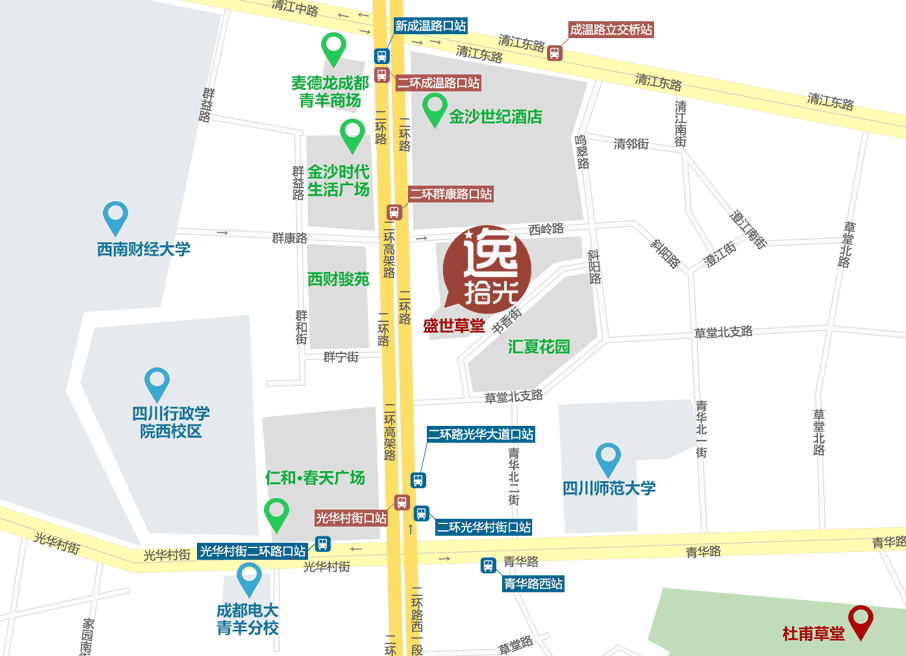
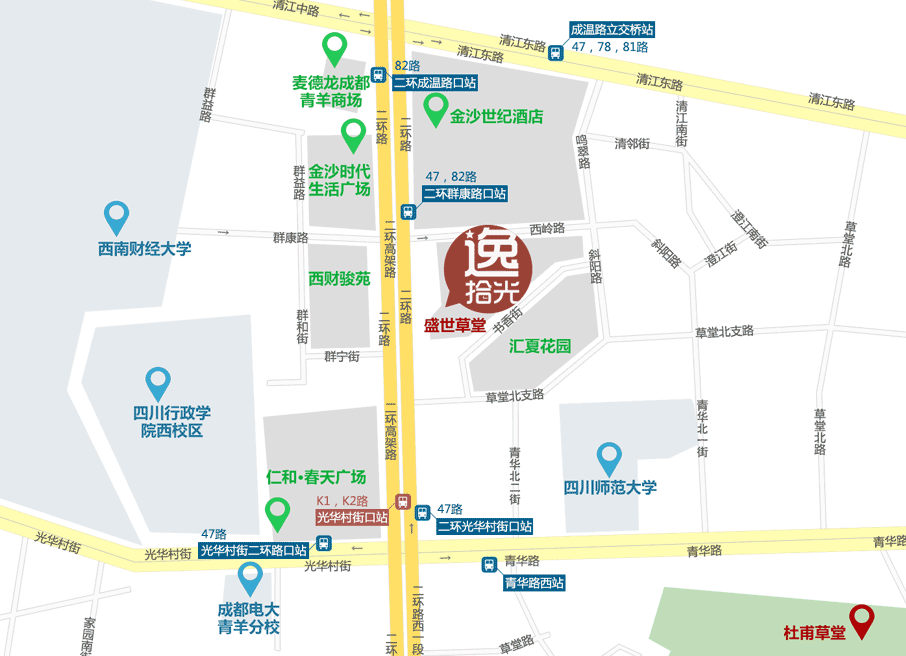
v2

diff --git a/index.html b/index.html
@@ -45,38 +45,39 @@
 		<li><a href="#traffic">交通线路</a></li>
 		<li><a href="#map">地图展示</a></li>
 		<li><a href="#contact">联系我们</a></li>
-		<li><a href="http://www.douban.com/people/cozyhostel/" target="_blank" title="逸拾光的豆瓣小站"><img src="img/i-douban.png"></a></li>
+		<!--li><a href="http://www.douban.com/people/cozyhostel/" target="_blank" title="逸拾光的豆瓣小站"><img src="img/i-douban.png"></a></li-->
+		<li><a href="http://site.douban.com/228100/" target="_blank" title="逸拾光的豆瓣小站"><img src="img/i-douban.png"></a></li>
 		<li><a href="http://weibo.com/1shiguang/" target="_blank" title="逸拾光的新浪微博"><img src="img/i-weibosina.png"></a></li>
 		<li><a href="http://t.qq.com/cozyhostel/" target="_blank" title="逸拾光的腾讯微博"><img src="img/i-weibotencent.png"></a></li>
 		<li><a href="http://www.baidu.com/p/成都逸拾光" target="_blank" title="逸拾光的百度空间"><img src="img/i-baidu.png"></a></li>
 		<li><a href="http://www.renren.com/580297067/" target="_blank" title="逸拾光的人人主页"><img src="img/i-renren.png"></a></li>
 		<li><a href="http://www.kaixin001.com/home/158782110.html" target="_blank" title="逸拾光的开心主页"><img src="img/i-kaixin.png"></a></li>
-		<li><a href="http://www.pengyou.com/11253877/" target="_blank" title="逸拾光的朋友网"><img src="img/i-pengyou.png"></a></li>
+		<!--li><a href="http://www.pengyou.com/11253877/" target="_blank" title="逸拾光的朋友网"><img src="img/i-pengyou.png"></a></li-->
 		<li><a href="http://user.qzone.qq.com/11253877/" target="_blank" title="逸拾光的QQ空间"><img src="img/i-qzone.png"></a></li>
 	</ul>
 </div>
 <div class="main-container" id="home">
 	<div class="intro">
 		<div class="fix">
-			<h1><!--Cozy Hostel<br><span class="subtitle">Front End Developer & Web Designer</span>--> 
+			<h1><!--Cozy Hostel--> 
 				<img src="img/logo.png"><br>
 				<span class="subtitle">成都逸拾光青年旅馆</span>
 				<span class="text">一楼一阁一行人&nbsp;&nbsp;&nbsp;&nbsp;一书一茶一时光</span>
-				<br><br>
+				<img src="img/2v.png" class="weixin">
             </h1>
 		</div>
 	</div>
 	<a class="arrow" href="#house"></a>
 	<div class="clearfix" id="house">
 		<ul id="grid" class="grid">
-			<li> <a href="#" target="_blank" data-largesrc="img/saloona.jpg" data-title="一楼一阁一行人" data-description="我们为你在成都短暂停留提供一个家，在这里，像在家一样洗衣做饭看电视会朋友。"> <img class="thumbs" src="img/thumbs/saloona.jpg" alt="成都的家"/> </a> </li>
-			<li> <a href="#" target="_blank" data-largesrc="img/saloonb.jpg" data-title="小巧舒适结交伙伴" data-description="大家彼此信任相互照顾，在这里你可以结交到新的伙伴，分享心事，共同旅行。"> <img class="thumbs" src="img/thumbs/saloonb.jpg" alt="结交伙伴"/> </a> </li>
-			<li> <a href="#" target="_blank" data-largesrc="img/saloonc.jpg" data-title="一书一茶一时光" data-description="在生活中，慢一点，既能让生命长一些，又能让快乐多一点。"> <img class="thumbs" src="img/thumbs/saloonc.jpg" alt="快乐生活"/> </a> </li>
-			<li> <a href="#" target="_blank" data-largesrc="img/bathroom.jpg" data-title="绿色的家干净的心" data-description="简单，干净，温暖，清洁，就像在家一样的舒适，自在。"> <img class="thumbs" src="img/thumbs/bathroom.jpg" alt="干净卫生"/> </a> </li>
-			<li> <a href="#" target="_blank" data-largesrc="img/girls.jpg" data-title="女生六人间" data-description="粉粉的女生床位间，适合结伴出行的学生朋友，像大学宿舍，简单而舒适，方便交流。"> <img class="thumbs" src="img/thumbs/girls.jpg" alt="女生间"/> </a> </li>
-			<li> <a href="#" target="_blank" data-largesrc="img/boys.jpg" data-title="男生六人间" data-description="蓝色的男生床位间，像大学宿舍，简单的回忆，适合结伴出行的学生朋友。"> <img class="thumbs" src="img/thumbs/boys.jpg" alt="男生间"/> </a> </li>
-			<li> <a href="#" target="_blank" data-largesrc="img/standard.jpg" data-title="标准双人间" data-description="清新的标准双人间，适合结伴出行的双人伙伴。"> <img class="thumbs" src="img/thumbs/standard.jpg" alt="标准间"/> </a> </li>
-			<li> <a href="#" target="_blank" data-largesrc="img/kingsize.jpg" data-title="舒适而宽敞的大床房" data-description="相对隐私的大床房，温馨的像个家。"> <img class="thumbs" src="img/thumbs/kingsize.jpg" alt="大床房"/> </a> </li>
+			<li> <a href="http://site.douban.com/228100/" target="_blank" data-largesrc="img/saloona.jpg" data-title="一楼一阁一行人" data-description="我们为你在成都短暂停留提供一个家，在这里，像在家一样洗衣做饭看电视会朋友。"> <img class="thumbs" src="img/thumbs/saloona.jpg" alt="成都的家"/> </a> </li>
+			<li> <a href="http://site.douban.com/228100/" target="_blank" data-largesrc="img/saloonb.jpg" data-title="小巧舒适结交伙伴" data-description="大家彼此信任相互照顾，在这里你可以结交到新的伙伴，分享心事，共同旅行。"> <img class="thumbs" src="img/thumbs/saloonb.jpg" alt="结交伙伴"/> </a> </li>
+			<li> <a href="http://site.douban.com/228100/" target="_blank" data-largesrc="img/saloonc.jpg" data-title="一书一茶一时光" data-description="在生活中，慢一点，既能让生命长一些，又能让快乐多一点。"> <img class="thumbs" src="img/thumbs/saloonc.jpg" alt="快乐生活"/> </a> </li>
+			<li> <a href="http://site.douban.com/228100/" target="_blank" data-largesrc="img/bathroom.jpg" data-title="绿色的家干净的心" data-description="简单，干净，温暖，清洁，就像在家一样的舒适，自在。"> <img class="thumbs" src="img/thumbs/bathroom.jpg" alt="干净卫生"/> </a> </li>
+			<li> <a href="http://site.douban.com/228100/" target="_blank" data-largesrc="img/girls.jpg" data-title="女生六人间" data-description="粉粉的女生床位间，适合结伴出行的学生朋友，像大学宿舍，简单而舒适，方便交流。"> <img class="thumbs" src="img/thumbs/girls.jpg" alt="女生间"/> </a> </li>
+			<li> <a href="http://site.douban.com/228100/" target="_blank" data-largesrc="img/boys.jpg" data-title="男生六人间" data-description="蓝色的男生床位间，像大学宿舍，简单的回忆，适合结伴出行的学生朋友。"> <img class="thumbs" src="img/thumbs/boys.jpg" alt="男生间"/> </a> </li>
+			<li> <a href="http://site.douban.com/228100/" target="_blank" data-largesrc="img/standard.jpg" data-title="标准双人间" data-description="清新的标准双人间，适合结伴出行的双人伙伴。"> <img class="thumbs" src="img/thumbs/standard.jpg" alt="标准间"/> </a> </li>
+			<li> <a href="http://site.douban.com/228100/" target="_blank" data-largesrc="img/kingsize.jpg" data-title="舒适而宽敞的大床房" data-description="相对隐私的大床房，温馨的像个家。"> <img class="thumbs" src="img/thumbs/kingsize.jpg" alt="大床房"/> </a> </li>
 		</ul>
 	</div>
 </div>
@@ -117,11 +118,11 @@
 			<b>女生<label>6</label>人间：</b><br><span>床位日租<label>50</label>元，周租<label>300</label>元，月租<label>1000</label>元，冷暖空调，独立卫生间，带锁储物柜。</span><br>
 			<b>男生<label>6</label>人间：</b><br><span>床位日租<label>45</label>元，周租<label>280</label>元，月租<label>900</label>元，冷暖空调，公共卫生间，带锁储物柜。</span><br>
 			<b>标准间：</b><br><span>日租<label>120</label>元，周租<label>700</label>元，月租<label>2800</label>元，冷暖空调，<label>1</label>米单人床，公用卫生间。</span><br>
-			<b>大床房：</b><br><span>日租<label>120</label>元，周租<label>700</label>元，月租<label>2800</label>元，冷暖空调，<label>1.5</label>米双人床，公用卫生间。</span><br><br>
-			<b>【关于订房】</b><br><span>由于目前处于试营业阶段，订房只需通过电话/QQ咨询预订房间，暂不用支付定金。</span><br>
+			<b>大床房：</b><br><span>日租<label>120</label>元，周租<label>700</label>元，月租<label>2800</label>元，冷暖空调，<label>1.5</label>米双人床，公用卫生间。</span><br>
+			<b>【关于订房】</b><br><span>由于目前处于试营业阶段，订房只需通过电话/QQ咨询预订房间，暂不用支付订金。</span><br>
 			<b>【付款方式】</b><br><span>前台支付现金。</span><br>
-			<b>【退订，改订】</b><br><span>虽然不用预交定金，但希望你是个靠谱的人，即便不准时入住，也能及时告知。</span><br>
-			<b>【联系方式】</b><br><span>电话：<label>180-03070-4061</label> QQ：<label>1125-3877</label></span><br><br>
+			<b>【退订，改订】</b><br><span>虽然不用预交订金，但希望你是个靠谱的人，即便不准时入住，也能及时告知。</span><br>
+			<b>【联系方式】</b><br><span>电话：<label>134-3819-1075</label> QQ：<label>1125-3877</label></span><br><br>
 		</p>
 	</div>
 </div>
@@ -150,19 +151,17 @@
 	<div class="map-text">
     	<div class="app">
         	<div class="app-head">
-            	<ul>
-                	<li class="active"><a href="javascript:;">旅游线路</a></li>
-                	<li><a href="javascript:;">交通地图</a></li>
+				<ul>
+                	<li class="active"><a href="javascript:;">交通地图</a></li>
+                	<li><a href="javascript:;">旅游线路</a></li>
           		</ul>
 			</div>
             <div class="app-body">
-               <div class="appimg active"><img src="img/appimg2.png"></div>
-               <div class="appimg"><img src="img/appimg.png"></div>
+               <div class="appimg active"><img src="img/appimg.png"></div>
+               <div class="appimg"><img src="img/appimg2.png"></div>
             </div>
         </div>
-    </div>
-	<div class="ursite">
-    	
+		<div class="app2"></div>
     </div>
 </div>
 
@@ -173,10 +172,10 @@
 	</div>
 	<div class="sections">
 			<ul>
-				<li class="tel"><label>138</label><label class="eng">-</label><label>1234</label><label class="eng">-</label><label>5678</label></li>
+				<li class="tel"><label>134</label><label class="eng">-</label><label>3819</label><label class="eng">-</label><label>1075</label></li>
 				<li class="qq"><label>1125</label><label class="eng">-</label><label>3877</label></li>
 				<li class="mail"><label class="eng">cozyhostel@</label><label>126</label><label class="eng">.com</label></li>
-				<li class="douban"><a href="#" target="_blank"><label class="eng">site.douban.com/</label><label>228100</label><label class="eng">/</label></a></li>
+				<li class="douban"><a href="http://site.douban.com/228100/" target="_blank" title="逸拾光的豆瓣小站"><label class="eng">site.douban.com/</label><label>228100</label><label class="eng">/</label></a></li>
 				<li class="weibo"><label class="eng">weibo.com/</label><label>1</label><label class="eng">shiguang</label> 或 <label class="eng">@</label>逸拾光</li>
 				<!--
 				<li class="renren">cozyhostel@126.com</li>
@@ -194,15 +193,15 @@
             <li><a href="#home" title="返回顶部">Copyright ©2014 逸拾光</a></li>
 			<li>&nbsp;</li>
 			<li>&nbsp;</li>
+			<li><a href="http://site.douban.com/228100/" target="_blank" title="成都逸拾光青年旅馆的豆瓣小站">豆瓣小站</a></li>
+			<li><a href="http://weibo.com/1shiguang/" target="_blank" title="成都逸拾光青年旅馆的新浪微博">新浪微博</a></li>
             <li><a href="http://blog.sina.com.cn/cozyhostel/" target="_blank" title="成都逸拾光青年旅馆的新浪博客">新浪博客</a></li>
-            <li><a href="http://weibo.com/1shiguang/" target="_blank" title="成都逸拾光青年旅馆的新浪微博">新浪微博</a></li>
             <li><a href="http://t.qq.com/cozyhostel/" target="_blank" title="成都逸拾光青年旅馆的腾讯微博">腾讯微博</a></li>
-            <li><a href="http://www.douban.com/people/cozyhostel/" target="_blank" title="成都逸拾光青年旅馆的豆瓣小站">豆瓣小站</a></li>
-            <li><a href="http://www.renren.com/580297067/" target="_blank" title="成都逸拾光青年旅馆的人人主页">人人主页</a></li>
+            <li><a href="http://www.baidu.com/p/成都逸拾光" target="_blank" title="成都逸拾光青年旅馆的百度空间">百度空间</a></li>
         </ul>
     </div>
 </div>
-<div id="tv" class="qr-popup"><a class="code-link"><img src="img/2v.png" title="扫一扫，加微信好友"></a></div>
+<!--div id="tv" class="qr-popup"><a class="code-link"><img src="img/2v.png" title="扫一扫，加微信好友"></a></div-->
 <script src="js/vendor/jquery-1.10.1.min.js"></script>
 <script src="js/plugins.js"></script> 
 <script src="js/main.js"></script>

diff --git a/css/main.css b/css/main.css
@@ -20,8 +20,9 @@ textarea { resize: vertical; }
 a { color: #555; text-decoration: none; -webkit-transition: all 0.1s ease-in-out; -moz-transition: all 0.1s ease-in-out; -o-transition: all 0.1s ease-in-out; -ms-transition: all 0.1s ease-in-out; transition: all 0.1s ease-in-out; }
 h1 { color: #fff; color: rgba(255,255,255, 0.7); font-size: 600%; font-family: 'museo sans', museo, helvetica, sans-serif, arial, "Microsoft YaHei", "微软雅黑", "SimSun", "宋体"; font-weight: normal; line-height: 90%; text-align: center; padding: 0; margin: 0; width: 100%; display: table-cell; vertical-align: middle; text-align: center; z-index: 2; position: relative; }
 h1 img { text-align: center; padding: 0; margin: 0; width: auto; text-align: center; filter: alpha(opacity=80); -moz-opacity: 0.8; -khtml-opacity: 0.8; opacity: 0.8; }
-.subtitle { color: #fff; color: rgba(255,255,255, 0.7); font-size: 55%; font-family: "Microsoft YaHei", "微软雅黑", "SimSun", "宋体", 'museo sans', museo, helvetica, sans-serif, arial; font-weight: normal; line-height: 100%; text-align: center; margin: 1% 0; width: 100%; display: table-cell; vertical-align: middle; text-align: center; display: block; }
+.subtitle { color: #fff; color: rgba(255,255,255, 0.7); font-size: 55%; font-family: "Microsoft YaHei", "微软雅黑", "SimSun", "宋体", 'museo sans', museo, helvetica, sans-serif, arial; font-weight: normal; line-height: 150%; text-align: center; margin: 1% 0; width: 100%; display: table-cell; vertical-align: middle; text-align: center; display: block; }
 .text { color: #fff; color: rgba(255,255,255, 0.7); font-size: 32%; font-family: "Microsoft YaHei", "微软雅黑", "SimSun", "宋体", 'museo sans', museo, helvetica, sans-serif, arial; font-weight: normal; line-height: 100%; text-align: center; margin: 1% 0 0; width: 100%; display: table-cell; vertical-align: middle; text-align: center; display: block; }
+img.weixin { width: 182px; height: 182px; padding:10px; margin:2% 0 0 0; background:#fff; filter: alpha(opacity=80); -moz-opacity: 0.8; -khtml-opacity: 0.8; opacity: 0.8; }
 .header-container { position: absolute; width: 100%; z-index: 5; display: none; }
 nav ul { text-align: center; padding: 0; position: fixed; width: 100%; }
 nav ul li { display: inline; padding: 20px; }
@@ -175,12 +176,13 @@ border: 1px solid #b4b4b4; border-top-left-radius: 5px; border-top-right-radius:
 .app .app-head ul { padding: 0; margin: 0 0 0 -50px; list-style: none; display: inline-block; border-right: 1px solid #b4b4b4; }
 .app .app-head ul li { display: inline; font-family: "Microsoft YaHei", "微软雅黑", "SimSun", "宋体", helvetica, arial, sans-serif; font-size: 14px; }
 .app .app-head ul li a { float: left; padding: 0 15px; color: #000; border-left: 1px solid #b4b4b4; }
-.app .app-head ul li.active a, .app .app-head ul li a:hover { background-color: #d2d2d2; background-image: -webkit-gradient(linear, 50% 0, 50% 100%, color-stop(0%, #d2d2d2), color-stop(100%, #e6e6e6) ); background-image: -webkit-linear-gradient(top, #d2d2d2, #e6e6e6); background-image: -moz-linear-gradient(top, #d2d2d2, #e6e6e6); background-image: -o-linear-gradient(top, #d2d2d2, #e6e6e6); background-image: -ms-linear-gradient(top, #d2d2d2, #e6e6e6); background-image: linear-gradient(top, #d2d2d2, #e6e6e6);  filter:progid:DXImageTransform.Microsoft.Gradient(gradientType=0, startColorStr=#d2d2d2, endColorStr=#e6e6e6);
-color: #666; }
+.app .app-head ul li.active a, .app .app-head ul li a:hover { background-color: #9B4237; background-image: -webkit-gradient(linear, 50% 0, 50% 100%, color-stop(0%, #9B4237), color-stop(100%, #ab5146) ); background-image: -webkit-linear-gradient(top, #9B4237, #ab5146); background-image: -moz-linear-gradient(top, #9B4237, #ab5146); background-image: -o-linear-gradient(top, #9B4237, #ab5146); background-image: -ms-linear-gradient(top, #9B4237, #ab5146); background-image: linear-gradient(top, #9B4237, #ab5146);  filter:progid:DXImageTransform.Microsoft.Gradient(gradientType=0, startColorStr=#9B4237, endColorStr=#ab5146);color:#fff; }
 .app .app-body { border: 1px solid #b4b4b4; height: 629px; border-top: none; }
 .appimg { width: 100%; height: 100%; display: none; }
 .appimg.active { display: block; }
 .appimg img { width: 100%; height: 100%; display: block; }
+
+.app2 { display:none;}
 
 /* ==========================================================================
    contact styles
@@ -280,24 +282,22 @@ h2, h3 { page-break-after: avoid; }
 #elevator .backTop:hover, #elevator .code:hover { background-color: rgba(0,0,0,.7) }
 #elevator .qr-popup { position: absolute; bottom: 0; left: -180px; width: 170px; height: 200px; box-shadow: 0 1px 8px rgba(0,0,0,.1); text-align: center; background: #fff; border-radius: 2px; display: none; }
 #elevator .code-link { margin: 10px; display: block; }
-#tv.qr-popup { position: fixed; top: 82%; left: 45%; width: 202px; height: 202px; margin-top: -150px; box-shadow: 0 1px 8px rgba(0,0,0,.1); text-align: center; background: #fff; border-radius: 0px; display: none; z-index: 10; filter: alpha(opacity=80); -moz-opacity: 0.8; -khtml-opacity: 0.8; opacity: 0.8; }
+#tv.qr-popup { position: fixed; top: 82%; left: 45%; width: 192px; height: 192px; margin-top: -150px; box-shadow: 0 1px 8px rgba(0,0,0,.1); text-align: center; background: #fff; border-radius: 0px; display: none; z-index: 10; filter: alpha(opacity=80); -moz-opacity: 0.8; -khtml-opacity: 0.8; opacity: 0.8; }
+#tv.qr-popup img { width: 182px; height: 182px; }
 #tv.qr-popup .code-link { margin: 10px; display: block; }
-
 /* ==========================================================================
    Media Queries
    ========================================================================== */
 @media screen and (max-width: 1700px) {
 .subtitle { font-size: 48%; }
 .text { font-size: 28%; }
-#tv.qr-popup { top: 84%; left: 45%; width: 170px; height: 170px; margin-top: -150px; }
-#tv.qr-popup img { width: 150px; height: 150px; }
+img.weixin { width: 160px; height: 160px; padding:8px;}
 body {overflow-x:hidden;}
 }
 @media screen and (max-width: 1400px) {
 .subtitle { font-size: 48%; }
 .text { font-size: 28%; }
-#tv.qr-popup { top: 84%; left: 44%; width: 170px; height: 170px; margin-top: -150px; }
-#tv.qr-popup img { width: 150px; height: 150px; }
+img.weixin { width: 140px; height: 140px; padding:8px;}
 .about-text p { font-size: 16px; line-height: 32px; }
 .checkin-text p { font-size: 16px; line-height: 30px; }
 .checkin-text p strong { font-size: 140%; line-height: 300%; }
@@ -315,38 +315,40 @@ body {overflow-x:hidden;}
 .floating-contact-right { background: url(../img/logo2mini.png) 0 0 no-repeat; }
 }
 @media screen and (max-width: 1300px) {
+#tv.qr-popup { display:none;}
 .contact { background: #333 url(../img/bear-top2.png) 32% bottom no-repeat fixed; }
 .sections { width: 50%; }
+.background-stuff { display:none;}
 }
 @media screen and (max-width: 1050px) {
-#tv.qr-popup { top: 82%; left: 41.5%; width: 170px; height: 170px; margin-top: -150px; }
-#tv.qr-popup img { width: 150px; height: 150px; }
+img.weixin { width: 120px; height: 120px; padding:8px;}
 .about { background: #c14954 url(../img/bg-about2.png) 50% 10% no-repeat fixed; }
 .contact { background: #333 url(../img/bear-top2.png) 28% bottom no-repeat fixed; }
 .sections { width: 63%; }
 }
 @media screen and (max-width: 830px) {
+img.weixin { width: 80px; height: 80px; padding:8px;}
 .expander h3 { font-size: 32px; }
 .expander p { font-size: 13px; }
 .expander a { font-size: 12px; }
 .about-text { width: 90%; }
 }
 @media screen and (max-width: 780px) {
-#tv.qr-popup { top: 82%; left: 39%; width: 170px; height: 170px; margin-top: -150px; }
-#tv.qr-popup img { width: 150px; height: 150px; }
+img.weixin { display:none;}
 .about-text, .checkin-text, .traffic-text { width: 85%; }
 .contact { background: #333 url(../img/bear-top2.png) 12% bottom no-repeat fixed; }
 .sections { width: 85%; }
 .floating-about-left { margin: 540px 0 0 0; left: 27%; }
 .floating-traffic-left { margin: 60px 0 0 -560px; left: 50%; }
 .floating-contact-right { background: url(../img/logo2mini.png) 0 0 no-repeat; margin: 120px 0 0 100px; left: 34%; }
+.app { display:none; }
+.app2 { display:table-cell; width:640px; height:600px; background:url(../img/appimg-640.png) center center no-repeat;}
 }
 @media screen and (max-width: 650px) {
-#tv.qr-popup { top: 82%; left: 37%; width: 170px; height: 170px; margin-top: -150px; }
-#tv.qr-popup img { width: 150px; height: 150px; }
 .about-text, .checkin-text, .traffic-text { width: 90%; }
 .checkin-text p { font-size: 16px; line-height: 28px; }
-.contact { background: #333 url(../img/bear-top2.png) 22% bottom no-repeat fixed; }
+.map { background: #254a4f; }
+.contact { background: #333; }
 .sections { width: 78%; }
 .floating-about-left { margin: 620px 0 0 0; left: 20%; }
 .floating-traffic-left { margin: 60px 0 0 -600px; left: 50%; }
@@ -361,10 +363,8 @@ h1 span { font-size: 60%; line-height: 100%; }
 .fix { position: relative; }
 .arrow { position: absolute; }
 h1 img { width: 65%; }
-.subtitle { font-size: 58%; }
-.text { font-size: 32%; }
-#tv.qr-popup { top: 82%; left: 35%; width: 140px; height: 140px; margin-top: -150px; }
-#tv.qr-popup img { width: 120px; height: 120px; }
+.subtitle { font-size: 68%; line-height: 150%; }
+.text { font-size: 40%; }
 .about-text, .checkin-text, .traffic-text { width: 95%; }
 .about-text p { font-size: 14px; line-height: 28px; }
 .checkin-text p { font-size: 14px; line-height: 28px; }
@@ -373,19 +373,17 @@ h1 img { width: 65%; }
 .traffic-text p { font-size: 14px; line-height: 28px; }
 .traffic-text p strong { font-size: 140%; line-height: 100%; }
 .traffic-text p label { font-size: 18px; }
-.contact { background: #333 url(../img/bear-top2.png) 20% bottom no-repeat fixed; }
+.contact { background: #333; }
 .sections { width: 90%; }
 .floating-about-left { margin: 600px 0 0 0; left: 12%; }
 .floating-traffic-left { margin: 60px 0 0 -580px; left: 50%; }
 .floating-contact-right { display: none; }
+.app2 { display:table-cell; width:480px; height:600px; background:url(../img/appimg-480.png) center center no-repeat;}
 }
 @media screen and (max-width: 340px) {
 h1 img { width: 75%; }
-.subtitle { font-size: 58%; }
-.text { font-size: 32%; }
-#tv.qr-popup { top: 85%; left: 34%; width: 100px; height: 100px; margin-top: -100px; }
-#tv.qr-popup img { width: 90px; height: 90px; }
-#tv.qr-popup .code-link { margin: 5px; display: block; }
+.subtitle { font-size: 58%; line-height: 150%; }
+.text { font-size: 33%; }
 .about-text, .checkin-text, .traffic-text { width: 100%; }
 .about-text p { font-size: 12px; line-height: 16px; }
 .checkin-text p { font-size: 12px; line-height: 16px; }
@@ -399,6 +397,7 @@ h1 img { width: 75%; }
 .contact li label.eng { font-size: 100%; }
 .contact .time { margin: 30px 0 0 10px; font-size: 100%; }
 .floating-traffic-left { margin: 60px 0 0 -750px; left: 50%; }
+.app2 { display:table-cell; width:340px; height:640px; background:url(../img/appimg-480.png) center center no-repeat;}
 }
 @media only screen and (min-width: 480px) {
 .grid li { width: 45%; }

diff --git a/js/plugins.js b/js/plugins.js
@@ -369,7 +369,7 @@ var Grid = (function() {
             // create Preview structure:
             this.$title = $( '<h3></h3>' );
             this.$description = $( '<p></p>' );
-            this.$href = $( '<a href="#" target="_blank">前往豆瓣小站查看更多图片</a>' );
+            this.$href = $( '<a href="http://site.douban.com/228100/" target="_blank">前往豆瓣小站查看更多图片</a>' );
             this.$details = $( '<div class="details"></div>' ).append( this.$title, this.$description, this.$href );
             this.$loading = $( '<div class="loading"></div>' );
             this.$fullimage = $( '<div class="fullimg"></div>' ).append( this.$loading );
